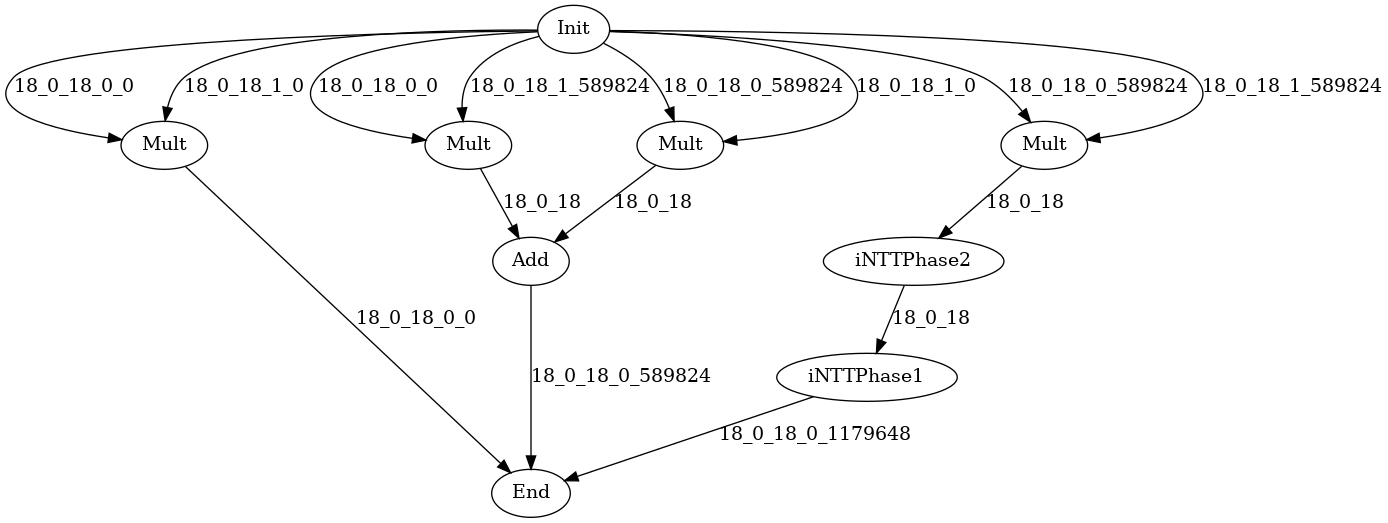
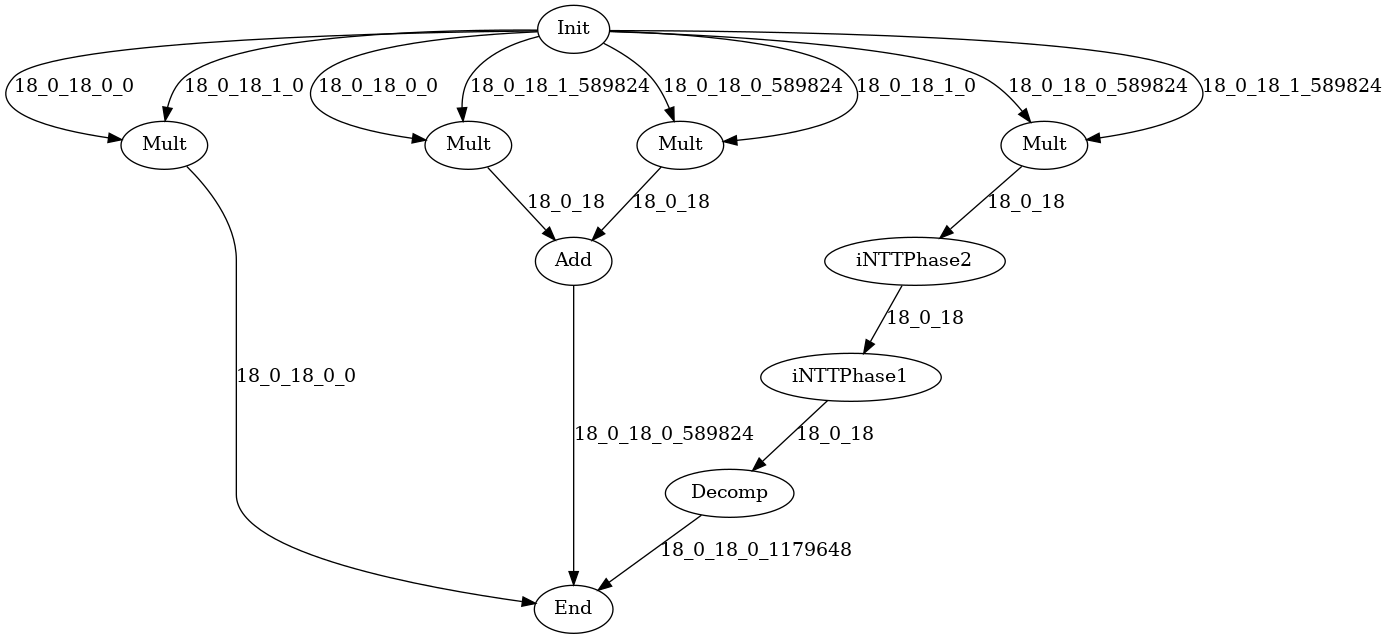
Decomp (#72)
* introduct decomp op

* decomp no opt

* decomp opt

diff --git a/polyfhe/engine/codegen/cuda_codegen.cpp b/polyfhe/engine/codegen/cuda_codegen.cpp
@@ -339,11 +339,13 @@ void CudaCodegen::generate_kernel_defs(
         w << "__global__ void " << subgraph->get_name() << "(Params *params";
 
         for (auto node : subgraph->get_nodes()) {
+            // Input edges
             for (auto edge : node->get_in_edges()) {
                 if (edge->get_level() == polyfhe::core::EdgeLevel::Global) {
                     w << ", uint64_t *" << edge->get_name();
                 }
             }
+            // Output edges
             for (auto edge : node->get_out_edges()) {
                 if (edge->get_level() == polyfhe::core::EdgeLevel::Global) {
                     w << ", uint64_t *" << edge->get_name();
@@ -351,6 +353,11 @@ void CudaCodegen::generate_kernel_defs(
                     // We need to global-output only once
                     // break;
                 }
+            }
+            // Pre-computed constants
+            if (node->get_op_type() == core::OpType::Decomp) {
+                w << ", uint64_t *partQlHatInv_mod_Ql_concat";
+                w << ", uint64_t *partQlHatInv_mod_Ql_concat_shoup";
             }
         }
         w << ")";
@@ -398,73 +405,93 @@ void CudaCodegen::generate_kernel_defs(
             for (auto node : subgraph->get_nodes()) {
                 std::cout << "node: " << node->get_op_name() << std::endl;
                 core::OpType op_type = node->get_op_type();
-                if (op_type != core::OpType::Add &&
-                    op_type != core::OpType::Sub &&
-                    op_type != core::OpType::Mult) {
+                if (op_type == core::OpType::Add ||
+                    op_type == core::OpType::Sub ||
+                    op_type == core::OpType::Mult) {
+                    w << "// " << node->get_op_name() << "\n";
+                    // Make sure all levels of outedges are the same
+                    for (auto edge : node->get_out_edges()) {
+                        assert(edge->get_level() ==
+                               node->get_out_edges()[0]->get_level());
+                    }
+
+                    std::string op = "";
+                    if (op_type == core::OpType::Add) {
+                        op = " + ";
+                    } else if (op_type == core::OpType::Sub) {
+                        op = " + q - ";
+                    } else if (op_type == core::OpType::Mult) {
+                        op = " , ";
+                    }
+
+                    // Output to only first outedge
+                    w << "res = ";
+
+                    if (op_type == core::OpType::Mult) {
+                        w << "multiply_and_barrett_reduce_uint64(";
+                    }
+
+                    // in0
+                    auto edge = node->get_in_edges()[0];
+                    w << gen_edge_access(
+                        edge, "n_idx",
+                        std::to_string(edge->get_offset_smem()) +
+                            " + threadIdx.x");
+
+                    w << op;
+
+                    // in1
+                    edge = node->get_in_edges()[1];
+                    w << gen_edge_access(
+                        edge, "n_idx",
+                        std::to_string(edge->get_offset_smem()) +
+                            " + threadIdx.x");
+
+                    if (op_type == core::OpType::Mult) {
+                        w << ", q, "
+                             "params->modulus_const_ratio "
+                             "+ l_idx * 2);\n ";
+                    } else {
+                        w << ";\n";
+                    }
+
+                    // out
+                    if (op_type == core::OpType::Add ||
+                        op_type == core::OpType::Sub) {
+                        w << "if (res >= q) res -= q;\n";
+                    }
+
+                    edge = node->get_out_edges()[0];
+                    w << gen_edge_access(
+                        edge, "n_idx",
+                        std::to_string(edge->get_offset_smem()) +
+                            " + threadIdx.x");
+                    w << " = res;\n";
+                } else if (op_type == core::OpType::Decomp) {
+                    assert(node->get_in_edges().size() == 1);
+                    assert(node->get_out_edges().size() == 1);
+                    auto inedge = node->get_in_edges()[0];
+                    auto outedge = node->get_out_edges()[0];
+                    w << "res = phantom::arith::multiply_and_reduce_shoup(";
+                    w << gen_edge_access(
+                        inedge, "n_idx",
+                        std::to_string(inedge->get_offset_smem()) +
+                            " + threadIdx.x");
+                    w << ", partQlHatInv_mod_Ql_concat[l_idx]";
+                    w << ", partQlHatInv_mod_Ql_concat_shoup[l_idx]";
+                    w << ", q);\n";
+                    w << gen_edge_access(
+                        outedge, "n_idx",
+                        std::to_string(outedge->get_offset_smem()) +
+                            " + threadIdx.x");
+                    w << " = res;\n";
+                } else {
                     LOG_ERROR(
-                        "Only Add, Sub, Mult are supported for "
+                        "Only Add, Sub, Mult and Decomp are supported for "
                         "SubgraphType::Elem\n");
                     std::cerr << "op_type: " << core::toStringOpType(op_type)
                               << std::endl;
                 }
-
-                w << "// " << node->get_op_name() << "\n";
-                assert(node->get_in_edges().size() == 2);
-
-                // Make sure all levels of outedges are the same
-                for (auto edge : node->get_out_edges()) {
-                    assert(edge->get_level() ==
-                           node->get_out_edges()[0]->get_level());
-                }
-
-                std::string op = "";
-                if (op_type == core::OpType::Add) {
-                    op = " + ";
-                } else if (op_type == core::OpType::Sub) {
-                    op = " + q - ";
-                } else if (op_type == core::OpType::Mult) {
-                    op = " , ";
-                }
-
-                // Output to only first outedge
-                w << "res = ";
-
-                if (op_type == core::OpType::Mult) {
-                    w << "multiply_and_barrett_reduce_uint64(";
-                }
-
-                // in0
-                auto edge = node->get_in_edges()[0];
-                w << gen_edge_access(
-                    edge, "n_idx",
-                    std::to_string(edge->get_offset_smem()) + " + threadIdx.x");
-
-                w << op;
-
-                // in1
-                edge = node->get_in_edges()[1];
-                w << gen_edge_access(
-                    edge, "n_idx",
-                    std::to_string(edge->get_offset_smem()) + " + threadIdx.x");
-
-                if (op_type == core::OpType::Mult) {
-                    w << ", params->qVec[l_idx], params->modulus_const_ratio "
-                         "+ l_idx * 2);\n ";
-                } else {
-                    w << ";\n";
-                }
-
-                // out
-                if (op_type == core::OpType::Add ||
-                    op_type == core::OpType::Sub) {
-                    w << "if (res >= q) res -= q;\n";
-                }
-
-                edge = node->get_out_edges()[0];
-                w << gen_edge_access(
-                    edge, "n_idx",
-                    std::to_string(edge->get_offset_smem()) + " + threadIdx.x");
-                w << " = res;\n";
             }
             w.block_end();
         } else if (s_type == core::SubgraphType::ElemLimb1) {
@@ -503,6 +530,16 @@ void CudaCodegen::generate_kernel_defs(
                     assert(node->get_in_edges().size() == 2);
                     LOG_ERROR("Not implemented\n");
                     assert(false);
+                } else if (op_type == core::OpType::Decomp) {
+                    w << "#pragma unroll\n";
+                    w << "for (int l = 0; l < 8; l++)";
+                    w.block_begin();
+                    w << "reg[l] = phantom::arith::multiply_and_reduce_shoup(";
+                    w << "reg[l]";
+                    w << ", partQlHatInv_mod_Ql_concat[twr_idx]";
+                    w << ", partQlHatInv_mod_Ql_concat_shoup[twr_idx]";
+                    w << ", params->qVec[twr_idx]);\n";
+                    w.block_end();
                 } else if (op_type == core::OpType::NTTPhase1) {
                     LOG_ERROR("Not implemented\n");
                     assert(false);
@@ -724,6 +761,7 @@ void CudaCodegen::generate_call_kernels(
           << kconfig.block_size << ", " << kconfig.shared_mem_size << ">>>";
         w << "(params_d";
         for (auto node : subgraph->get_nodes()) {
+            // Input edges
             for (auto edge : node->get_in_edges()) {
                 if (edge->get_level() == polyfhe::core::EdgeLevel::Global) {
                     // Check if the src node has branch
@@ -746,6 +784,8 @@ void CudaCodegen::generate_call_kernels(
                     }
                 }
             }
+
+            // Output edges
             for (auto edge : node->get_out_edges()) {
                 if (edge->get_level() == polyfhe::core::EdgeLevel::Global) {
                     w << ", " << edge->get_name() << "_d";
@@ -753,6 +793,12 @@ void CudaCodegen::generate_call_kernels(
                     // We need to global-output only once
                     // break;
                 }
+            }
+
+            // Pre-computed constants
+            if (node->get_op_type() == core::OpType::Decomp) {
+                w << ", rns_tool.partQlHatInv_mod_Ql_concat()";
+                w << ", rns_tool.partQlHatInv_mod_Ql_concat_shoup()";
             }
         }
         w << ");\n";
@@ -790,12 +836,16 @@ void CudaCodegen::generate_entry(std::shared_ptr<polyfhe::core::Graph>& graph,
     LOG_INFO("Start Generate entry kernel\n");
     CodeWriter w;
 
-    w << "void entry_kernel(Params *params_d, Params *params_h, uint64_t *in0, "
+    w << "void entry_kernel(Params *params_d, Params *params_h, PhantomContext "
+         "&context, "
+         "uint64_t *in0, "
          "uint64_t *in1, "
          "uint64_t *out0, bool if_benchmark)";
     w.block_begin();
 
     // w << "const long N = params_h->N;\n";
+    w << "auto &rns_tool = ";
+    w << "context.get_context_data(1).gpu_rns_tool();\n";
 
     w << "\n";
     w << "// =====================================\n";
@@ -918,14 +968,17 @@ void CudaCodegen::generate_include(
     w << "#include <cuda.h>\n";
     w << "#include <cuda_runtime.h>\n";
     w << "#include <chrono>\n";
-    w << "#include <iostream>\n\n";
+    w << "#include <iostream>\n";
     w << "#include <numeric>\n";
     w << "#include <vector>\n";
     w << "#include <stdio.h>\n";
-    w << "#include \"polyfhe/kernel/device_context.hpp\"\n\n";
-    w << "#include \"polyfhe/kernel/polynomial.cuh\"\n\n";
-    w << "#include \"polyfhe/kernel/ntt.hpp\"\n\n";
-    w << "#include \"polyfhe/kernel/ntt-phantom.hpp\"\n\n";
+    w << "#include \"polyfhe/kernel/device_context.hpp\"\n";
+    w << "#include \"polyfhe/kernel/polynomial.cuh\"\n";
+    w << "#include \"polyfhe/kernel/ntt.hpp\"\n";
+    w << "#include \"polyfhe/kernel/ntt-phantom.hpp\"\n";
+    w << "#include \"phantom-fhe/include/phantom.h\"\n";
+    w << "#include \"phantom-fhe/include/uintmodmath.cuh\"\n";
+
     w.write_to_file(filename, if_append);
 }
 

diff --git a/polyfhe/core/graph/node.cpp b/polyfhe/core/graph/node.cpp
@@ -21,6 +21,8 @@ std::string toStringOpType(OpType op_type) {
         return "Sub";
     case OpType::Mult:
         return "Mult";
+    case OpType::Decomp:
+        return "Decomp";
     case OpType::BConv:
         return "BConv";
     case OpType::ModDown:
@@ -68,7 +70,7 @@ MemoryAccessPattern OpType_access_pattern(OpType op_type) {
                op_type == OpType::ModUp) {
         return MemoryAccessPattern::SlotWise;
     } else if (op_type == OpType::Add || op_type == OpType::Sub ||
-               op_type == OpType::Mult) {
+               op_type == OpType::Mult || op_type == OpType::Decomp) {
         return MemoryAccessPattern::ElementWise;
     } else if (op_type == OpType::End || op_type == OpType::Init) {
         return MemoryAccessPattern::NotDefined;
@@ -86,6 +88,7 @@ Node::Node(std::string op_name) : m_id(-1) {
         {"Add", OpType::Add},
         {"Sub", OpType::Sub},
         {"Mult", OpType::Mult},
+        {"Decomp", OpType::Decomp},
         {"BConv", OpType::BConv},
         {"ModDown", OpType::ModDown},
         {"ModUp", OpType::ModUp},

diff --git a/pypolyfhe/polyfhe.py b/pypolyfhe/polyfhe.py
@@ -10,6 +10,7 @@ class PolyOpType(Enum):
     Add = auto()
     Sub = auto()
     Mult = auto()
+    Decomp = auto()
     BConv = auto()
     ModDown = auto()
     ModUp = auto()
@@ -79,6 +80,9 @@ class PolyFHE:
     
     def mul(self, a: PolyOp, b: PolyOp, name: str, current_limb: int, start_limb: int, end_limb: int):
         return PolyOp(PolyOpType.Mult, [a, b], name, current_limb, start_limb, end_limb)
+    
+    def decomp(self, a: PolyOp, name: str, current_limb: int, start_limb: int, end_limb: int):
+        return PolyOp(PolyOpType.Decomp, [a], name, current_limb, start_limb, end_limb)
     
     def intt_phase1(self, a: PolyOp, name: str, current_limb: int, start_limb: int, end_limb: int):
         return PolyOp(PolyOpType.iNTTPhase1, [a], name, current_limb, start_limb, end_limb)

diff --git a/example/ckks_HMult/example.py b/example/ckks_HMult/example.py
@@ -15,9 +15,10 @@ add_axbx = pf.add(mult_axbx, mult_bxax, "add_axbx", prm.L, 0, prm.L)
 mult_bxbx = pf.mul(e_ct0_bx, e_ct1_bx, "mult_bxbx", prm.L, 0, prm.L)
 inttp2 = pf.intt_phase2(mult_bxbx, "inttp2", prm.L, 0, prm.L)
 inttp1 = pf.intt_phase1(inttp2, "inttp1", prm.L, 0, prm.L)
+decomp = pf.decomp(inttp1, "decomp", prm.L, 0, prm.L)
 res_axax = pf.end(mult_axax, 0, 0)
 res_axbx = pf.end(add_axbx, 0, prm.N * prm.L)
-res_bxbx = pf.end(inttp1, 0, prm.N * prm.L * 2)
+res_bxbx = pf.end(decomp, 0, prm.N * prm.L * 2)
 """
 ct0_bx = pf.init_op(pf.ct0, params.N * params.L)
 ct1_ax = pf.init_op(pf.ct1, 0)

diff --git a/polyfhe/core/graph/node.hpp b/polyfhe/core/graph/node.hpp
@@ -51,6 +51,7 @@ enum class OpType {
     Add,
     Sub,
     Mult,
+    Decomp,
     BConv,
     ModDown,
     ModUp,
